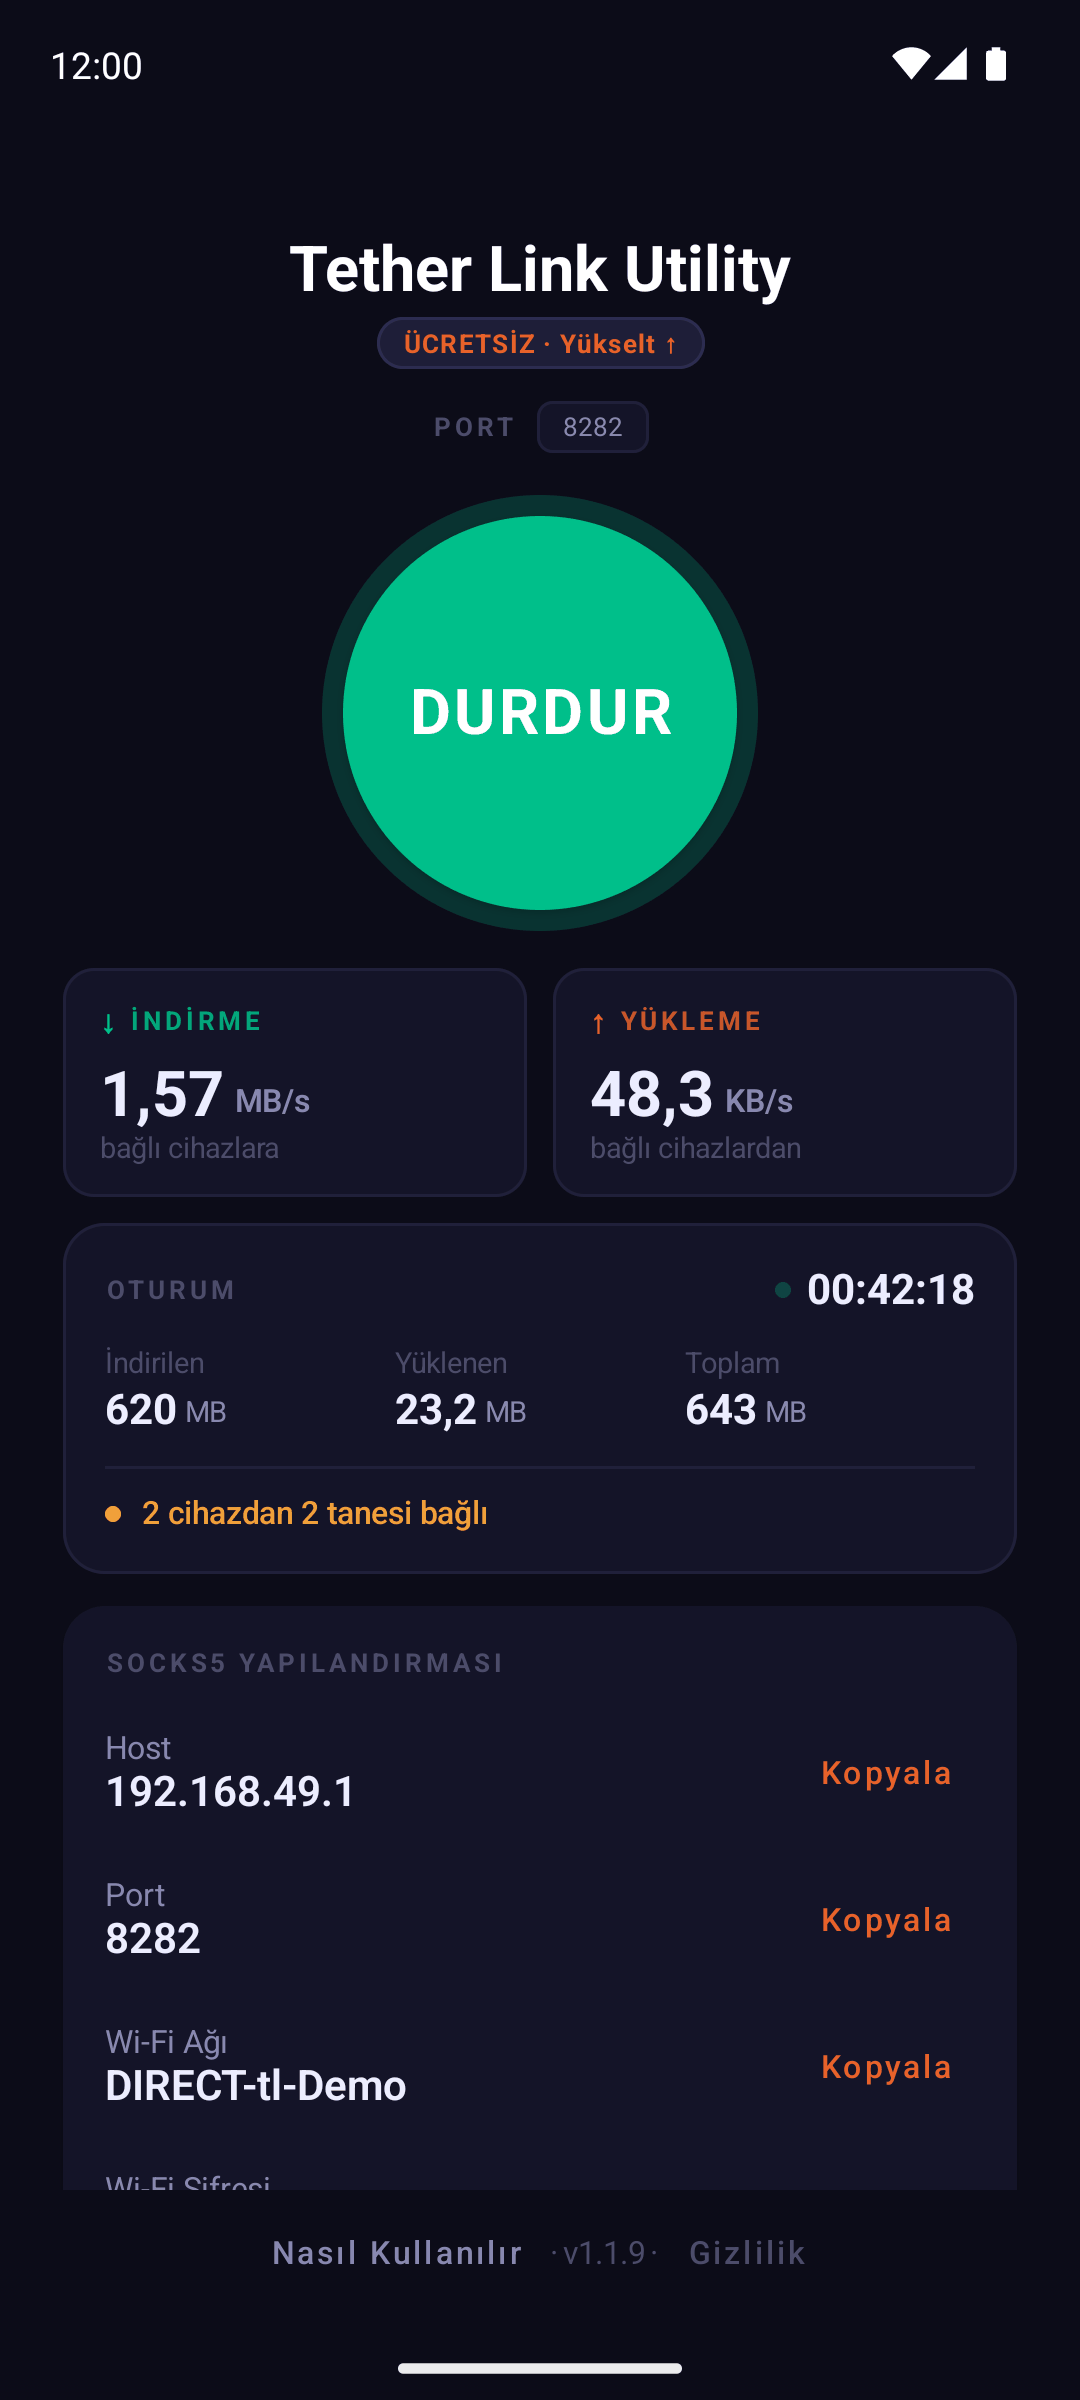
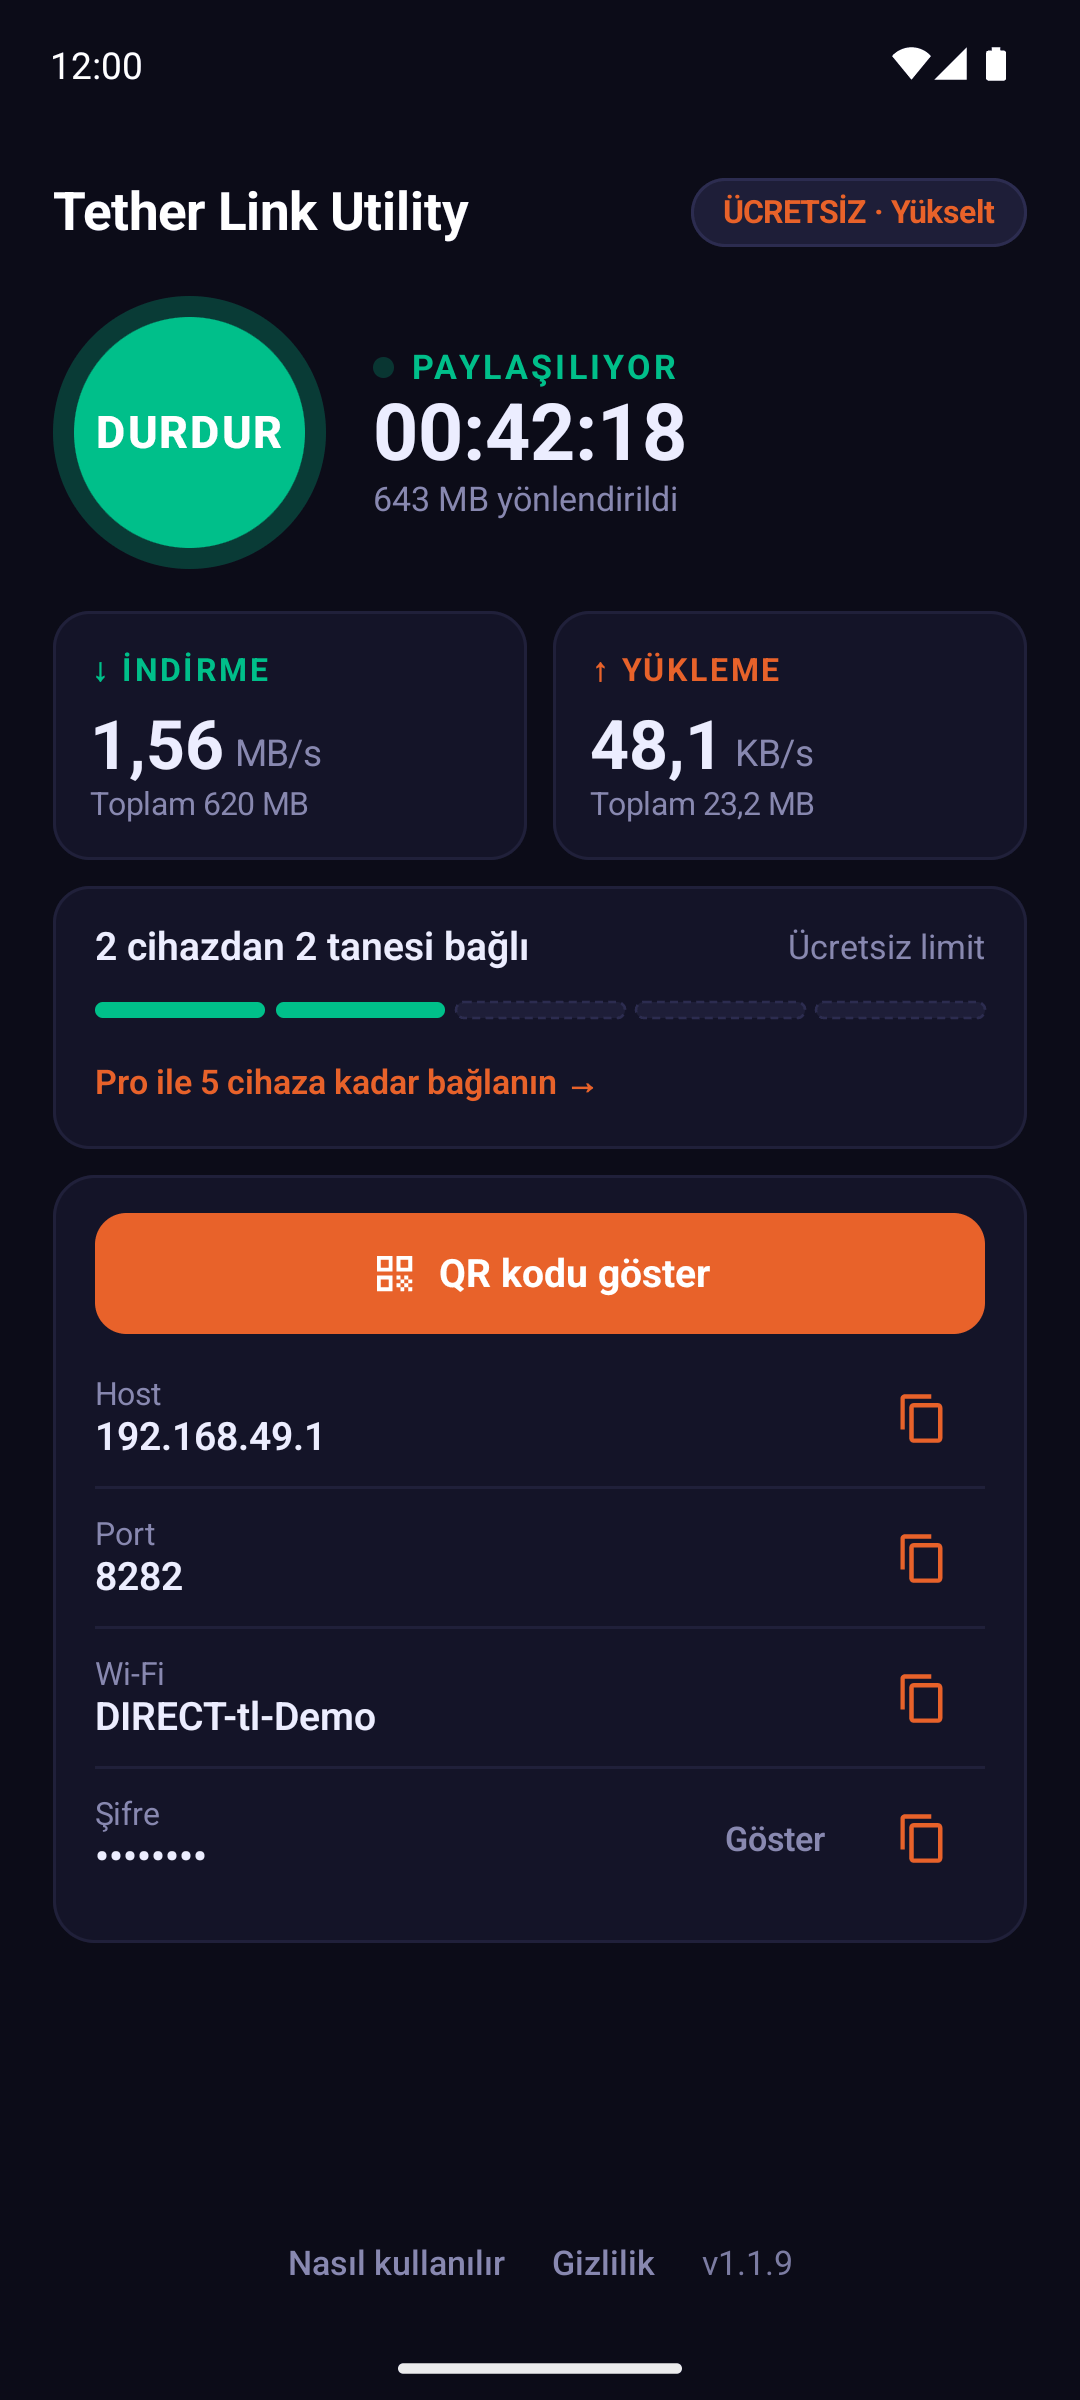
Hero: new app design screenshots, keep iOS casing

diff --git a/hi/index.html b/hi/index.html
@@ -357,6 +357,7 @@
     }
     .pill-accent { color: var(--accent); background: rgba(232,98,42,0.08); border: 1px solid rgba(232,98,42,0.3); }
     .pill-muted { color: var(--muted); border: 1px solid var(--border-md); }
+    .keep-case { text-transform: none; }
 
     h1 {
       font-size: clamp(40px, 6vw, 64px);
@@ -703,7 +704,7 @@
 <main>
   <section class="hero wrap">
     <div class="hero-content">
-      <div class="hero-pills"><span class="pill pill-accent">Android</span><span class="pill pill-muted">iOS जल्द आ रहा है</span></div>
+      <div class="hero-pills"><span class="pill pill-accent">Android</span><span class="pill pill-muted"><span><span class="keep-case">iOS</span> जल्द आ रहा है</span></span></div>
       <h1>आपके फ़ोन का मोबाइल डेटा, <span>हर डिवाइस पर।</span></h1>
       <p class="hero-body">Tether Link Utility आपके Android फ़ोन पर एक लोकल SOCKS5 प्रॉक्सी चलाता है और उसे Wi-Fi हॉटस्पॉट पर शेयर करता है, ताकि आपका लैपटॉप, टैबलेट या दूसरा फ़ोन आपका मोबाइल डेटा इस्तेमाल कर सके। सब कुछ आपके डिवाइस पर चलता है।</p>
       <div class="hero-actions">

diff --git a/tr/index.html b/tr/index.html
@@ -323,6 +323,7 @@
     }
     .pill-accent { color: var(--accent); background: rgba(232,98,42,0.08); border: 1px solid rgba(232,98,42,0.3); }
     .pill-muted { color: var(--muted); border: 1px solid var(--border-md); }
+    .keep-case { text-transform: none; }
 
     h1 {
       font-size: clamp(40px, 6vw, 64px);
@@ -669,7 +670,7 @@
 <main>
   <section class="hero wrap">
     <div class="hero-content">
-      <div class="hero-pills"><span class="pill pill-accent">Android</span><span class="pill pill-muted">iOS çok yakında</span></div>
+      <div class="hero-pills"><span class="pill pill-accent">Android</span><span class="pill pill-muted"><span><span class="keep-case">iOS</span> çok yakında</span></span></div>
       <h1>Telefonunuzun mobil verisi, <span>tüm cihazlarınızda.</span></h1>
       <p class="hero-body">Tether Link Utility, Android telefonunuzda yerel bir SOCKS5 proxy çalıştırır ve bunu Wi-Fi hotspot üzerinden paylaşır; böylece dizüstü bilgisayarınız, tabletiniz veya başka bir telefon mobil verinizi kullanabilir. Her şey cihazınızda çalışır.</p>
       <div class="hero-actions">

diff --git a/index.html b/index.html
@@ -357,6 +357,7 @@
     }
     .pill-accent { color: var(--accent); background: rgba(232,98,42,0.08); border: 1px solid rgba(232,98,42,0.3); }
     .pill-muted { color: var(--muted); border: 1px solid var(--border-md); }
+    .keep-case { text-transform: none; }
 
     h1 {
       font-size: clamp(40px, 6vw, 64px);
@@ -703,7 +704,7 @@
 <main>
   <section class="hero wrap">
     <div class="hero-content">
-      <div class="hero-pills"><span class="pill pill-accent">Android</span><span class="pill pill-muted">iOS coming soon</span></div>
+      <div class="hero-pills"><span class="pill pill-accent">Android</span><span class="pill pill-muted"><span><span class="keep-case">iOS</span> coming soon</span></span></div>
       <h1>Your phone's mobile data, on <span>every device.</span></h1>
       <p class="hero-body">Tether Link Utility runs a local SOCKS5 proxy on your Android phone and shares it over Wi-Fi hotspot, so your laptop, tablet or another phone can use your mobile data. Everything runs on your device.</p>
       <div class="hero-actions">
